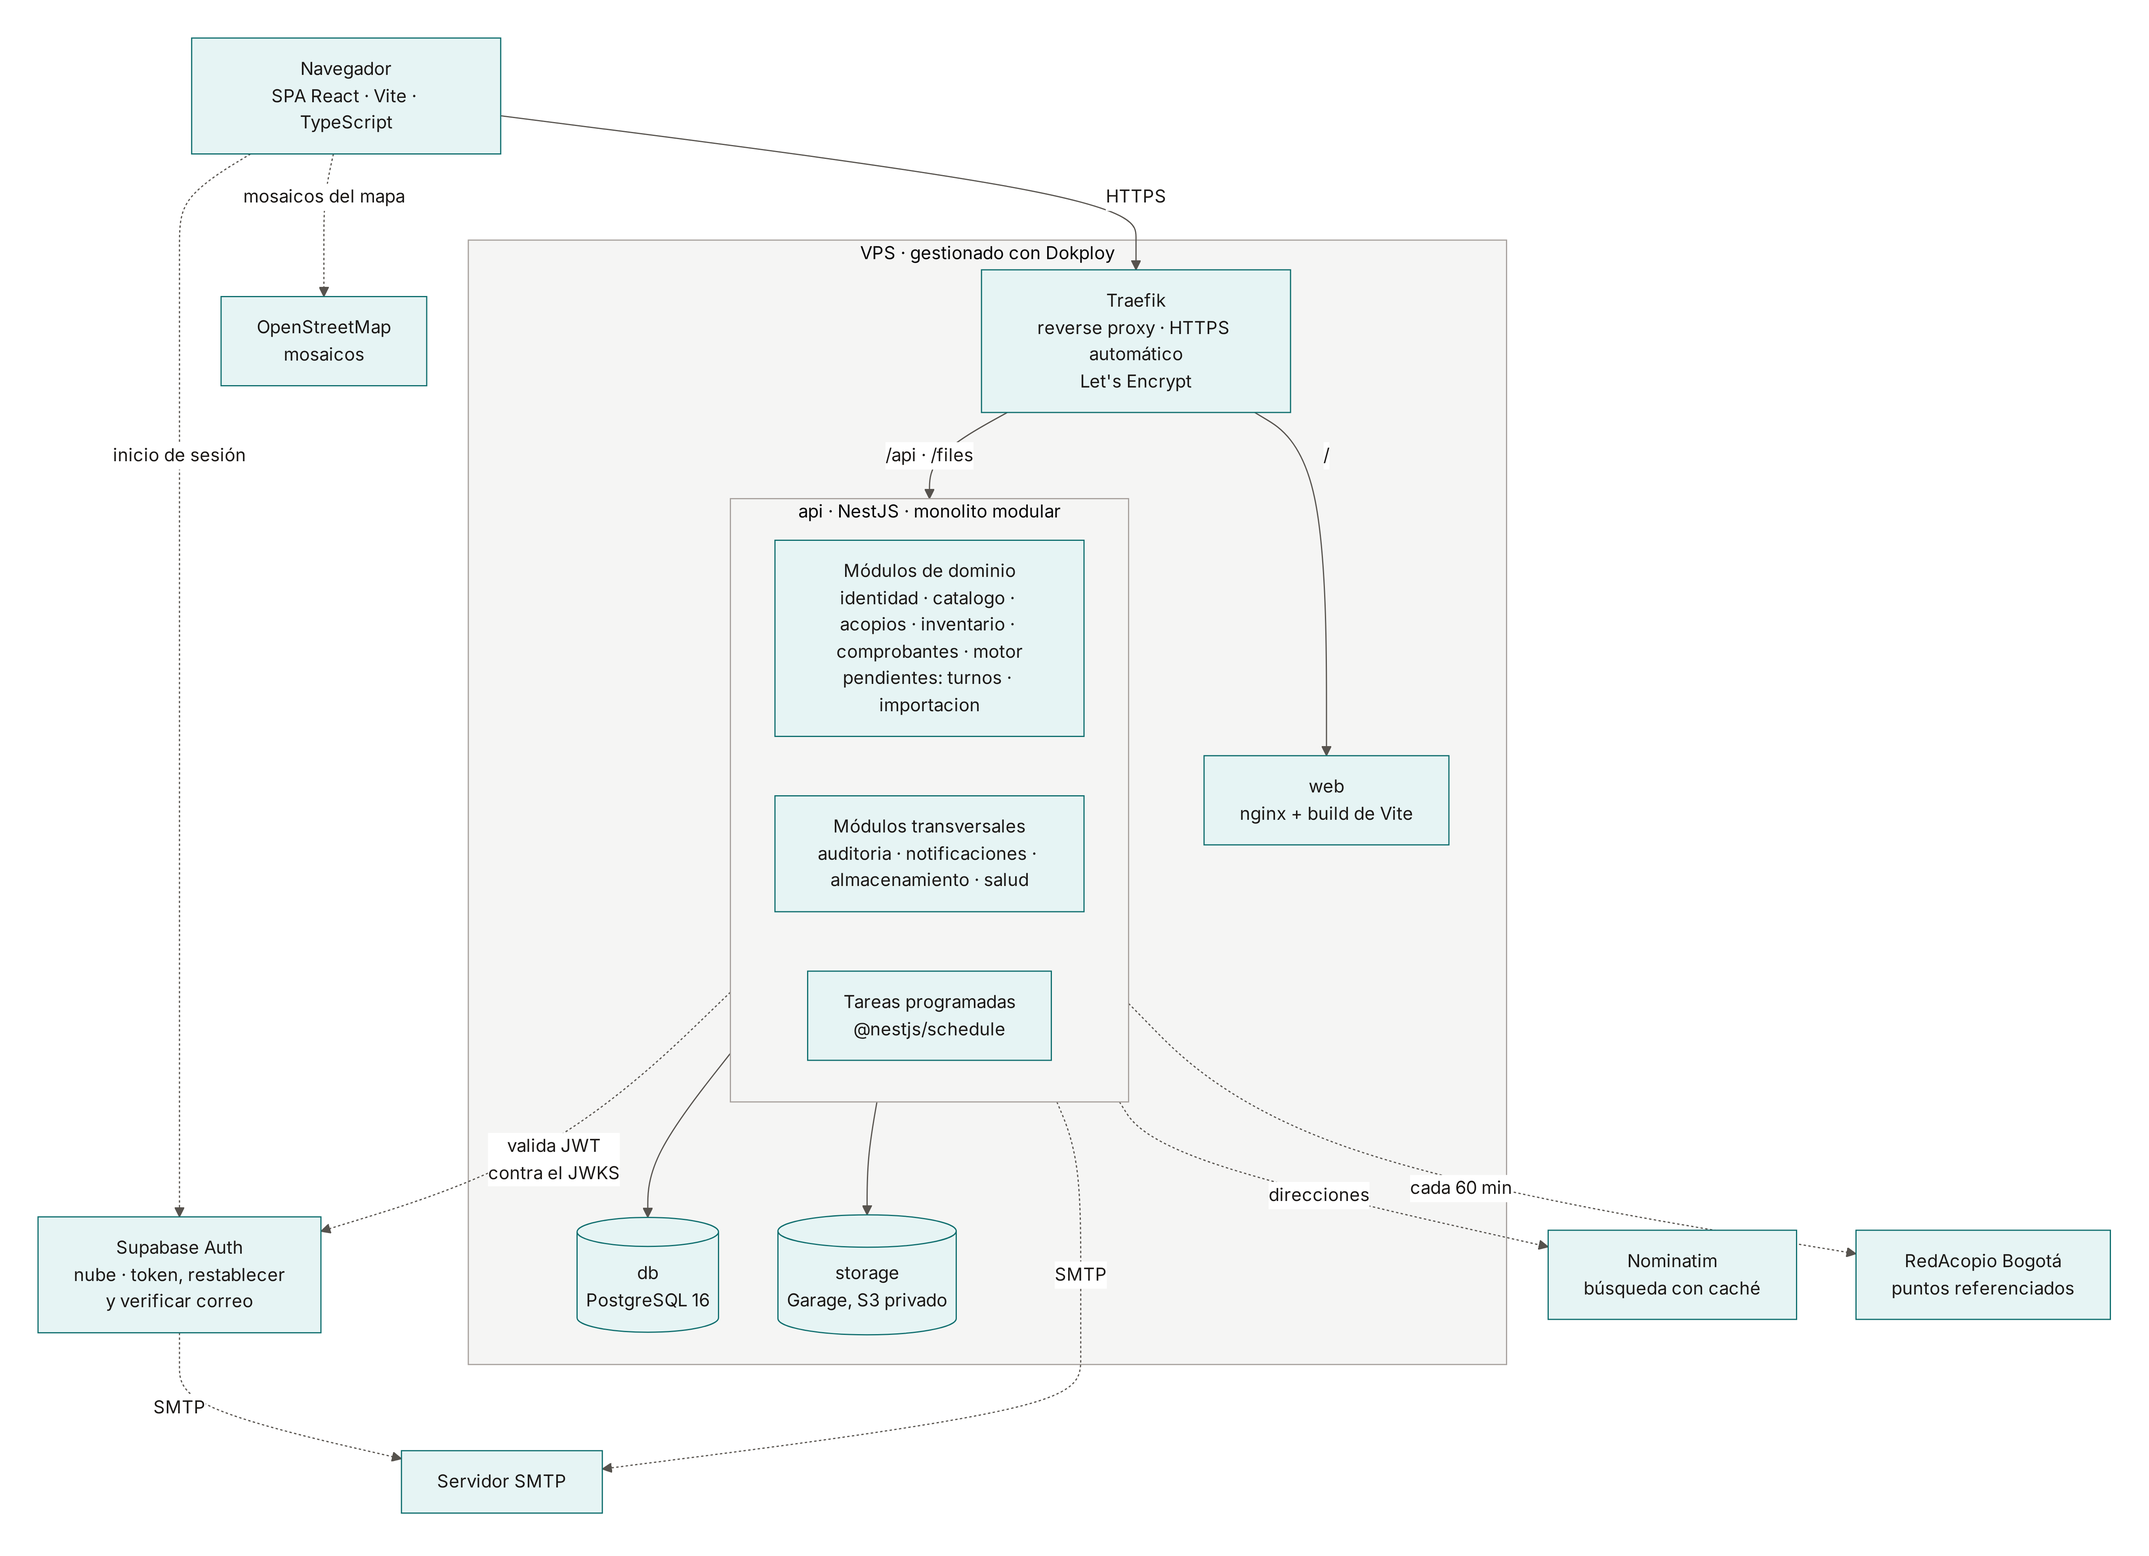
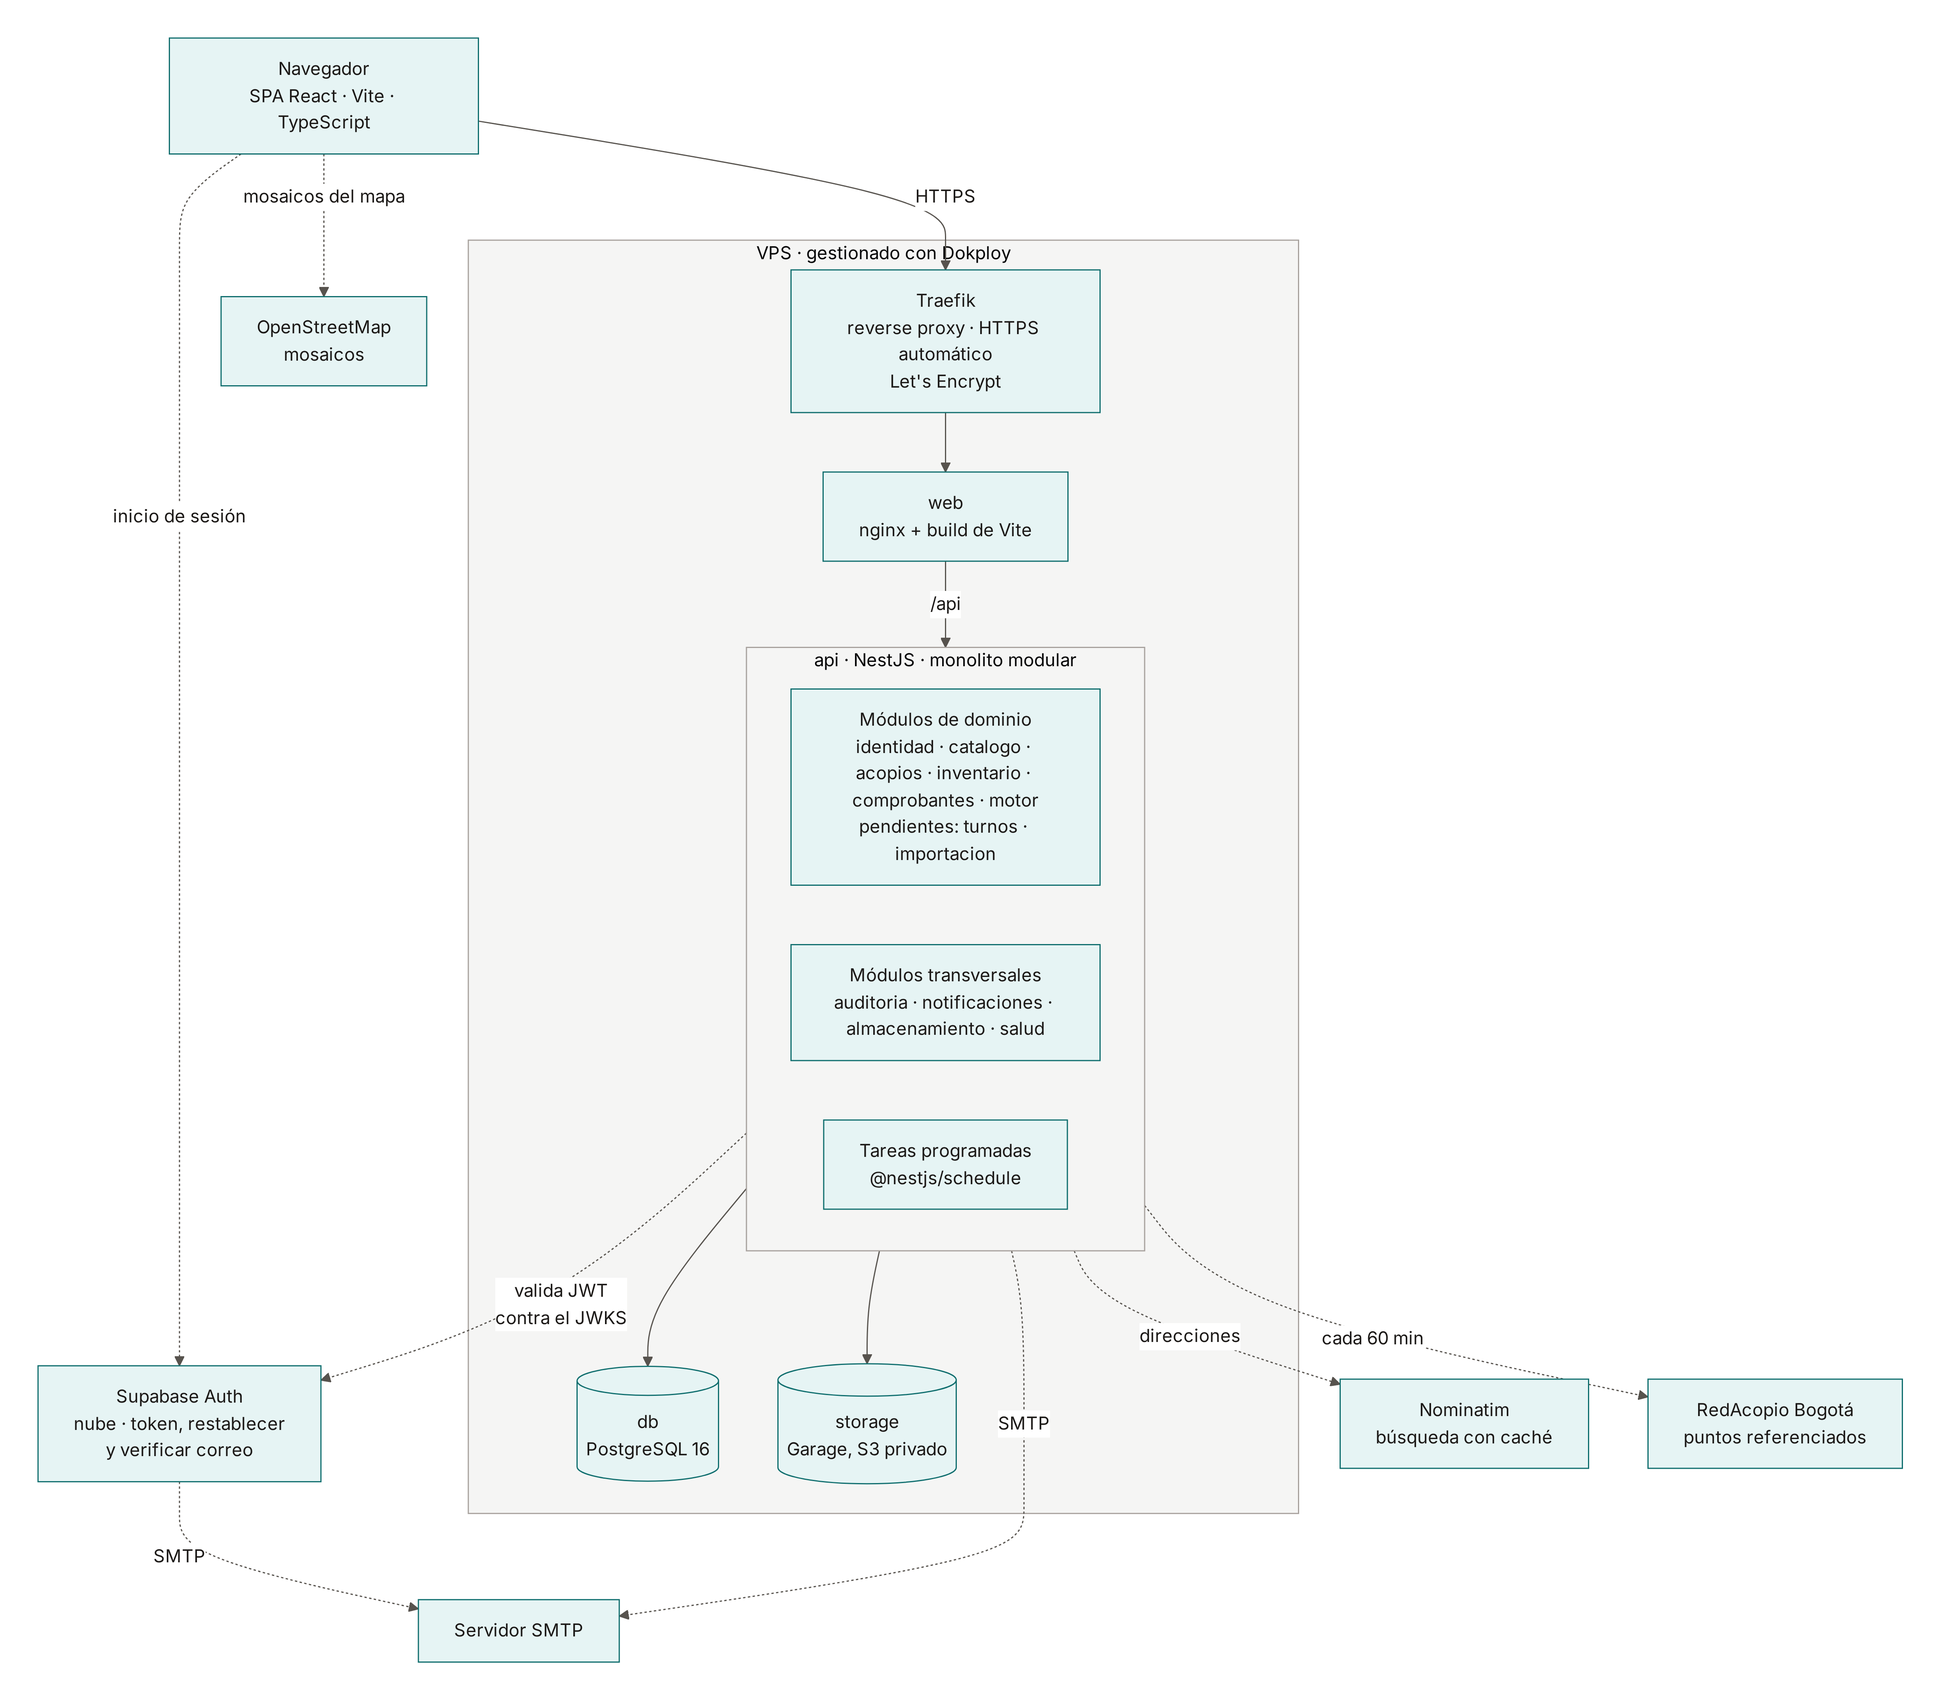
Despliegue: Dokploy con un solo dominio sobre web
despliegue.md lista las variables que lee el Compose, el formato de las
llaves de Garage y el primer arranque con el nombre de proyecto de Dokploy.
vista-general y el diagrama de contenedores muestran a web reenviando /api.

diff --git a/docs/02-arquitectura/diagramas/diagramas-acopio.html b/docs/02-arquitectura/diagramas/diagramas-acopio.html
@@ -164,10 +164,10 @@ footer{margin-top:64px; padding-top:20px; border-top:1px solid var(--borde); fon
       <h3 id="t-contenedores">Contenedores</h3>
       <p class="bajada">Qué corre dentro del VPS, cómo se enrutan las peticiones y qué módulos tiene la API.</p>
[1 lines of base64/hex data omitted]
-      <div class="notas"><p><strong>Cómo leer el diagrama.</strong> El navegador descarga la SPA desde <code>web</code> y habla con la API por HTTPS a través de Traefik; solo va directo a Supabase para iniciar sesión y a OpenStreetMap por los mosaicos del mapa. La API es un único proceso con once módulos —ocho de dominio y tres transversales— y sus tareas programadas; es la única pieza que toca la base de datos, los archivos y los servicios externos: el servidor SMTP para el correo, Nominatim para buscar direcciones y RedAcopio para importar puntos referenciados. Supabase usa el mismo servidor SMTP para sus correos.</p>
+      <div class="notas"><p><strong>Cómo leer el diagrama.</strong> El navegador descarga la SPA desde <code>web</code> y habla con la API por HTTPS en el mismo origen: Traefik entrega el dominio a <code>web</code>, y su nginx pasa <code>/api</code> a la API; solo va directo a Supabase para iniciar sesión y a OpenStreetMap por los mosaicos del mapa. La API es un único proceso con once módulos —ocho de dominio y tres transversales— y sus tareas programadas; es la única pieza que toca la base de datos, los archivos y los servicios externos: el servidor SMTP para el correo, Nominatim para buscar direcciones y RedAcopio para importar puntos referenciados. Supabase usa el mismo servidor SMTP para sus correos.</p>
 <p><strong>El almacenamiento nunca se expone.</strong> Es Garage, compatible con S3 (ADR-0012); la API le habla por la API de S3, así que cambiar de servidor es configuración. Todo archivo pasa por la API: la foto de la factura la entrega la propia API, que revisa el permiso y lee el objeto de Garage (ADR-0017). Hasta que ese cambio entre (#26), la API devuelve URL firmadas de cinco minutos, y en desarrollo las firma con <code>S3_URL_PUBLICA</code> (<code>http://localhost:3900</code>) para que el navegador las abra.</p>
-<p><strong>Lo que corre hoy.</strong> Mientras el desarrollo es local (P-032), todo se levanta con Docker Compose: <code>db</code>, <code>storage</code> (Garage), <code>mailpit</code> para ver los correos y la <code>api</code>. La web corre con Vite y todavía no tiene servicio en el Compose. El inicio de sesión usa el adaptador <code>local</code> de <code>ProveedorIdentidad</code> (P-025); Supabase Auth entra con el primer despliegue.</p>
-<p><strong>El <code>proxy: nginx</code> de antes lo reemplaza Traefik.</strong> Dokploy lo trae incluido: mismas reglas de enrutamiento (<code>/</code> a <code>web</code>, <code>/api</code> y <code>/files</code> a <code>api</code>), y encima resuelve el certificado HTTPS sin configurarlo a mano. Detalle completo en despliegue.md.</p></div>
+<p><strong>Lo que corre hoy.</strong> Mientras el desarrollo es local (P-032), todo se levanta con Docker Compose: <code>db</code>, <code>storage</code> (Garage), <code>mailpit</code> para ver los correos, la <code>api</code> y la <code>web</code> (nginx con el build, en el perfil <code>web</code>). Para trabajar en la interfaz se usa Vite. El inicio de sesión usa el adaptador <code>local</code> de <code>ProveedorIdentidad</code> (P-025); Supabase Auth entra con el primer despliegue.</p>
+<p><strong>No hay servicio <code>proxy</code>.</strong> Traefik viene con Dokploy, recibe el dominio y emite el certificado HTTPS. Lo entrega todo a <code>web</code>, y el nginx de <code>web</code> reenvía <code>/api</code> a la API. Detalle completo en despliegue.md.</p></div>
     </article>
   </section>
 

diff --git a/docs/06-operacion/despliegue.md b/docs/06-operacion/despliegue.md
@@ -3,7 +3,7 @@ title: "Despliegue"
 type: operacion
 tags: [operacion]
 estado: vigente
-actualizado: 2026-10-06
+actualizado: 2026-10-16
 ---
 
 # Despliegue
@@ -23,11 +23,14 @@ services:
                                   (Bloque 0, D-01) · volumen: llaves
   storage:   dxflrs/garage        volúmenes: garagemeta, garagedata · compatible con S3
                                   (ADR-0012)
-  web:       build apps/web       nginx sirviendo el build de Vite · llega con la interfaz
-  proxy:     nginx:alpine         puerto 80/443 · solo en local; en el VPS lo
-                                  reemplaza Traefik, incluido en Dokploy — ver
-                                  «Producción» más abajo · llega con la interfaz
+  web:       apps/web/Dockerfile  oven/bun construye, nginx:1.28-alpine sirve el build
+                                  de Vite y reenvía /api a la API (apps/web/nginx.conf)
 ```
+
+No hay un servicio `proxy`. En el VPS, Traefik (incluido en Dokploy) recibe el dominio y
+lo entrega a `web`; `web` sirve la interfaz y pasa `/api` a `api` por la red interna. Así
+la web y la API comparten origen, que es lo que piden la cookie `SameSite=Strict` y el
+control de `Origin` ([ADR-0014](../02-arquitectura/adr/ADR-0014-sesion-en-cookie.md)).
 
 **Dos roles de base de datos.** `acopio_owner` es el dueño: corre las migraciones y el
 *seed*. `acopio_app` es el de la API: no puede modificar ni borrar la bitácora. La API
@@ -35,13 +38,17 @@ recibe `DATABASE_URL` con `acopio_app`; las migraciones, `DATABASE_URL_OWNER`.
 
 **Supabase Auth es externo**, en la nube. No hay contenedor para él.
 
-## Enrutamiento del proxy
+## Enrutamiento
 
 ```
-/          → web
-/api/*     → api
-/files/*   → api      (nunca directo al almacenamiento)
+/          → web (nginx, con index.html para cualquier ruta de la SPA)
+/api/*     → web → api:3000
 ```
+
+nginx resuelve `api` con el DNS de Docker en cada petición. Al volver a desplegar, la API
+cambia de IP y nginx la sigue encontrando. También reenvía a la API la IP del cliente que
+puso Traefik, para que el límite de intentos por IP cuente a cada cliente por separado.
+Acepta cuerpos de hasta 9 MB porque las fotos llegan a 8 MB.
 
 **El almacenamiento no se expone jamás.** Todo archivo pasa por la API, que valida
 permisos y entrega URLs firmadas de cinco minutos. Garage escucha solo en la red
@@ -132,13 +139,56 @@ funciona, pero con riesgo real de quedarse sin memoria al construir la imagen de
 ```
 1  Aprovisionar el servidor y el dominio          (P-005, resuelto: servidor de pruebas propio)
 2  Instalar Dokploy con su script oficial          <10 min, servidor en blanco
-3  Crear un proyecto tipo Compose, apuntado a
-   infra/docker-compose.yml
+3  Crear un servicio tipo Compose: repositorio del proyecto, rama main,
+   Compose Path ./infra/docker-compose.yml (sin docker-compose.dev.yml)
 4  Cargar las variables de entorno desde el panel de Dokploy,
-   no en un .env versionado
-5  Agregar el dominio a web y a api; Dokploy emite el certificado
+   no en un .env versionado (ver «Variables en Dokploy»)
+5  Agregar un dominio al servicio web, puerto 80, path /, HTTPS con
+   Let's Encrypt. La API no necesita dominio propio: le llega por web
 6  Ejecutar el «Primer arranque» de abajo, una sola vez
 ```
+
+### Variables en Dokploy
+
+El panel guarda las variables en `infra/.env` dentro del clon y Dokploy despliega con
+`docker compose -p <appName> --env-file infra/.env -f ./infra/docker-compose.yml`. Solo
+hacen falta las que lee `infra/docker-compose.yml`. `DATABASE_URL`, `DATABASE_URL_OWNER`,
+`S3_ENDPOINT`, `AUTH_LLAVES_DIR` y `API_PUERTO` las arma el propio Compose.
+
+```bash
+POSTGRES_USER=acopio_owner
+POSTGRES_PASSWORD=             # openssl rand -hex 24 (va dentro de una URL: solo hexadecimal)
+POSTGRES_DB=acopio
+APP_DB_PASSWORD=               # openssl rand -hex 24; el rol se crea una vez, con el volumen
+NODE_ENV=production
+APP_URL=https://<dominio>      # origen exacto, sin / al final
+AUTH_PROVEEDOR=supabase
+SUPABASE_URL=https://<ref>.supabase.co          # sin / al final: con ella se valida el emisor
+SUPABASE_JWKS_URL=https://<ref>.supabase.co/auth/v1/.well-known/jwks.json
+SUPABASE_ANON_KEY=             # la publicable (sb_publishable_...)
+SUPABASE_SERVICE_ROLE_KEY=     # secreta; solo en este panel
+GARAGE_RPC_SECRET=             # openssl rand -hex 32 (64 hexadecimales)
+GARAGE_ADMIN_TOKEN=            # openssl rand -base64 32
+S3_REGION=garage
+S3_BUCKET=comprobantes
+S3_ACCESS_KEY=                 # echo GK$(openssl rand -hex 12) (GK y 24 hexadecimales)
+S3_SECRET_KEY=                 # openssl rand -hex 32 (64 hexadecimales)
+SMTP_HOST=
+SMTP_PORT=587
+SMTP_USER=
+SMTP_PASSWORD=
+SMTP_SEGURO=false              # true solo con el puerto 465
+CORREO_REMITENTE="Acopio <no-responder@<dominio>>"
+SEED_ADMIN_USUARIO=admin
+SEED_ADMIN_NOMBRE=Administrador
+SEED_ADMIN_CORREO=
+SEED_ADMIN_CONTRASENA=         # cambiarla al primer ingreso
+```
+
+Garage no arranca con un `GARAGE_RPC_SECRET` más corto (`Invalid RPC secret key: expected
+32 bytes of random hex`). Las dos llaves de S3 no fallan al arrancar sino en `iniciar.sh`.
+Si la API se reinicia en bucle, su log empieza por `Variables de entorno inválidas:` y
+nombra la que falta.
 
 ## Perfil de desarrollo
 
@@ -147,6 +197,7 @@ Los comandos, desde la raíz del repositorio:
 ```bash
 bun run servicios          # db, storage y mailpit
 bun run servicios:todo     # además construye y levanta la api
+bun run servicios:web      # el build de la web en nginx, en el 5173 (sin Vite corriendo)
 bun run servicios:parar
 bun run servicios:logs
 ```
@@ -163,8 +214,9 @@ el cambio solo afecta a lo que corre en el anfitrión: migraciones, seed y la AP
 recarga.
 
 `infra/docker-compose.dev.yml` sobrescribe:
-- `api` con `npm run start:dev` y volumen montado
-- `web` con el servidor de Vite en lugar de nginx
+- `api` con el puerto 3000 publicado y el correo hacia Mailpit
+- `web` en el perfil `web`, publicado en el 5173: `servicios:todo` no lo levanta, porque ese
+  puerto es el de Vite y el de `vite preview` en los recorridos
 - Puertos de la base de datos y de la API S3 de Garage expuestos al anfitrión
 - `mailpit`, que atrapa todo el correo SMTP y lo muestra en una bandeja web
 - `AUTH_PROVEEDOR=local`
@@ -204,6 +256,20 @@ URL.
 
 ## Primer arranque
 
+En Dokploy, después del primer despliegue, por SSH en el VPS. `<appName>` sale en el panel;
+el `-p` hace falta porque Dokploy usa ese nombre de proyecto y no el `name: acopio` del
+archivo.
+
+```bash
+cd /etc/dokploy/compose/<appName>/code
+DC="docker compose -p <appName> --env-file infra/.env -f infra/docker-compose.yml" \
+  ./infra/garage/iniciar.sh                              # capacidad, llave y bucket privado
+docker exec <appName>-api-1 npm run db:migrar          # migraciones, como dueño
+docker exec <appName>-api-1 npm run seed:dist          # catálogo, canasta y primer admin
+```
+
+Sin Dokploy, desde la raíz del repositorio:
+
 ```bash
 1  cp .env.example .env         # y llenarlo
 2  docker compose up -d db storage
@@ -216,7 +282,7 @@ URL.
 El script de Garage y el *seed* son idempotentes: correrlos de nuevo no duplica nada ni
 pisa lo que se editó.
 
-El paso 5 crea el catálogo inicial de categorías y **el primer administrador**, que
+El *seed* crea el catálogo inicial de categorías y **el primer administrador**, que
 es el único usuario que no nace de una invitación. Su contraseña se define por
 variable de entorno en ese único arranque y debe cambiarse de inmediato.
 

diff --git a/docs/02-arquitectura/vista-general.md b/docs/02-arquitectura/vista-general.md
@@ -3,7 +3,7 @@ title: "Vista general de arquitectura"
 type: arquitectura
 tags: [arquitectura]
 estado: vigente
-actualizado: 2026-10-09
+actualizado: 2026-10-16
 ---
 
 # Vista general de arquitectura
@@ -65,8 +65,8 @@ flowchart TB
         DB[("db<br/>PostgreSQL 16")]
         Storage[("storage<br/>Garage, S3 privado")]
 
-        Traefik -->|"/"| Web
-        Traefik -->|"/api · /files"| API
+        Traefik --> Web
+        Web -->|"/api"| API
         API --> DB
         API --> Storage
     end
@@ -79,7 +79,8 @@ flowchart TB
 ```
 
 **Cómo leer el diagrama.** El navegador descarga la SPA desde `web` y habla con
-la API por HTTPS a través de Traefik; solo va directo a Supabase para iniciar
+la API por HTTPS en el mismo origen: Traefik entrega el dominio a `web`, y su nginx
+pasa `/api` a la API; solo va directo a Supabase para iniciar
 sesión y a OpenStreetMap por los mosaicos del mapa. La API es un único proceso con
 once módulos —ocho de dominio y tres transversales— y sus tareas programadas; es la
 única pieza que toca la base de datos, los archivos y los servicios externos: el
@@ -95,14 +96,14 @@ entre (#26), la API devuelve URL firmadas de cinco minutos, y en desarrollo las 
 con `S3_URL_PUBLICA` (`http://localhost:3900`) para que el navegador las abra.
 
 **Lo que corre hoy.** Mientras el desarrollo es local (P-032), todo se levanta con
-Docker Compose: `db`, `storage` (Garage), `mailpit` para ver los correos y la `api`.
-La web corre con Vite y todavía no tiene servicio en el Compose. El inicio de sesión
+Docker Compose: `db`, `storage` (Garage), `mailpit` para ver los correos, la `api` y
+la `web` (nginx con el build, en el perfil `web`). Para trabajar en la interfaz se usa
+Vite. El inicio de sesión
 usa el adaptador `local` de `ProveedorIdentidad` (P-025); Supabase Auth entra con el
 primer despliegue.
 
-**El `proxy: nginx` de antes lo reemplaza Traefik.** Dokploy lo trae incluido:
-mismas reglas de enrutamiento (`/` a `web`, `/api` y `/files` a `api`), y encima
-resuelve el certificado HTTPS sin configurarlo a mano. Detalle completo en
+**No hay servicio `proxy`.** Traefik viene con Dokploy, recibe el dominio y emite el
+certificado HTTPS. Lo entrega todo a `web`, y el nginx de `web` reenvía `/api` a la API. Detalle completo en
 [despliegue.md](../06-operacion/despliegue.md#producción--vps-con-dokploy).
 
 ## Módulos del backend
